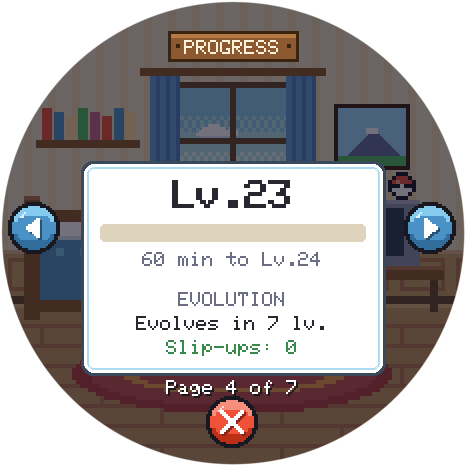
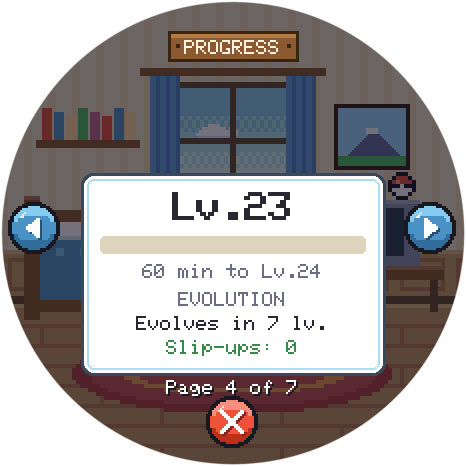
V2: after a battle both balls' bars come up in a panel; the Progress page's gap closed
The fight's end showed only the Ultra Ball's bar along the bottom, where the round
screen had no room for a second. Now, a second after the end's lines, the scene dims
and a panel rises into the middle with the Ultra Ball's bar over the Master Ball's;
this battle's step fills in on both and their numbers turn green. A battle that earns
a ball fills its bar to the top first, then the ball's moment (now at 2.4 s).

The card's Progress page: 12 px between the level's line and EVOLUTION, not 24.

Changed region(s): [[0.1502, 0.3305, 0.8412, 0.6009]]

diff --git a/master_v2.h b/master_v2.h
@@ -120,40 +120,56 @@ static void v2SpecialBall(int x, int y, int s) { v2SpecialBallTurned(s, 0, x, y,
 
 // ----- the bars: the ball, how many you hold, the fights to the next -----
 // the ball at (x, y) at 2x, the bar and "7/25" to its right, w in all; full: the fight that just earned one (25/25,
-// before its moment), the ball it earned not counted yet
-static void v2BallBar(bool master, int x, int y, int w, bool full) {
+// before its moment), the ball it earned not counted yet. k: how much of this fight's step shows, 0 to 1 (its number
+// counts it, in green, once it's all in)
+static void v2BallBar(bool master, int x, int y, int w, bool full, float k = 1) {
   if (master) v2MasterBall(x, y, 2);
   else v2UltraBall(x, y, 2);
   uint8_t n = master ? MASTER_FIGHTS : ULTRA_FIGHTS, held = master ? pet.masterBalls : pet.ultraBalls;
   uint8_t steps = full ? n : master ? pet.masterBar : pet.ultraBar;
   if (full && held) held--;
   if (held) drawCountBadge(x + 34, y + 4, held);
+  bool in = k >= 1 || !steps;
   char b[12];
-  snprintf(b, sizeof(b), "%u/%u", steps, n);
+  snprintf(b, sizeof(b), "%u/%u", in ? steps : steps - 1, n);
   bool cjk = classicFontBegin();
   setSize(2);
-  int tw = textW(b, 2), bx = x + 50, bw = w - 50 - tw - 10;
+  int tw = textW("100/100", 2), bx = x + 50, bw = w - 50 - tw - 10;  // (room for the longest: the bars line up)
   gfx->fillRoundRect(bx, y + 11, bw, 15, 6, C565(0xd8, 0xd2, 0xbd));
-  int fw = (bw - 4) * steps / n;
+  int fw = (int)((bw - 4) * (in ? steps : steps - 1 + (k < 0 ? 0 : k)) / n);
   if (fw > 2) gfx->fillRoundRect(bx + 2, y + 13, fw, 11, 5, master ? v2MasterInk('q') : C565(0xd0, 0xa0, 0x20));
-  gfx->setTextColor(V2_INK_MUTED);
-  setCur(x + w - tw, y + 11);
+  gfx->setTextColor(in && steps ? C565(0x3c, 0x8a, 0x4c) : V2_INK_MUTED);
+  setCur(x + w - textW(b, 2), y + 11);
   printT(b);
   classicFontEnd(cjk);
 }
 
 // ----- a fight's end -----
 static uint8_t v2MasterNew = 0;     // what this fight earned: 1 a Master Ball, 2 an Ultra Ball (battleFinish())
-#define V2_MASTER_SHOW_MS 1500      // the end as usual first, then the Master Ball's moment
-#define V2_MASTER_END_MS 6500       // ...until the catch or home (a tap from V2_MASTER_SKIP_MS)
-#define V2_MASTER_SKIP_MS 3000
-// t: since the end came up. The Ultra Ball's bar in a small panel under the lines (the nearer one); or, past
-// V2_MASTER_SHOW_MS of a fight that earned a ball, the gold burst: its name on the ribbon, the ball big with sparkles,
-// what it does, how many (a Master Ball's, when the fight earned both)
+#define V2_BARS_SHOW_MS 1000        // the end's lines first, then the balls' bars come up in a panel
+#define V2_BARS_IN_MS 180           // ...rising in as the scene dims
+#define V2_BARS_FILL_MS 450         // ...then this fight's step fills in on each
+#define V2_MASTER_SHOW_MS 2400      // a fight that earned a ball: its bar full, then the ball's moment
+#define V2_MASTER_END_MS 7400       // ...until the catch or home (a tap from V2_MASTER_SKIP_MS)
+#define V2_MASTER_SKIP_MS 3900
+// the balls' bars over the dimmed fight, t since they came up: the Ultra Ball's over the Master Ball's in a panel in
+// the middle, rising in, this fight's step filling in on both; gone with the fight (Fedor: "have them come up in a
+// 'modal' show progress and go away"; there was room at the bottom for one bar, the Ultra Ball's)
+static void v2BarsModal(uint32_t t) {
+  float in = t >= V2_BARS_IN_MS ? 1 : t / (float)V2_BARS_IN_MS;
+  v2DimFrame((int)(115 * in));
+  int y0 = 178 + SNAP2((int)(16 * (1 - in)));
+  v2Panel(V2_CARD_X0, y0, V2_CARD_X1, y0 + 110, 10);  // (as wide as the card's)
+  float k = t < V2_BARS_IN_MS + 150 ? 0 : (t - V2_BARS_IN_MS - 150) / (float)V2_BARS_FILL_MS;
+  v2BallBar(false, V2_CARD_L, y0 + 14, V2_CARD_R - V2_CARD_L, v2MasterNew & 2, k);
+  v2BallBar(true, V2_CARD_L, y0 + 62, V2_CARD_R - V2_CARD_L, v2MasterNew & 1, k);
+}
+// t: since the end came up. Past V2_BARS_SHOW_MS the balls' bars; past V2_MASTER_SHOW_MS of a fight that earned a
+// ball, the gold burst: its name on the ribbon, the ball big with sparkles, what it does, how many (a Master Ball's,
+// when the fight earned both)
 static void v2MasterEnd(uint32_t t) {
   if (!v2MasterNew || t < V2_MASTER_SHOW_MS) {
-    v2Panel(126, 406, 340, 438, 10);  // (under the second line's box; inside the round edge)
-    v2BallBar(false, 132, 404, 200, v2MasterNew & 2);
+    if (t >= V2_BARS_SHOW_MS) v2BarsModal(t - V2_BARS_SHOW_MS);
     return;
   }
   bool master = v2MasterNew & 1;

diff --git a/menus_v2.h b/menus_v2.h
@@ -537,10 +537,11 @@ static void v2CardTraining() {
 }
 static void v2CardItem(int which);  // (repel_v2.h: an item's own page: 0 the Ultra Ball, 1 the Master Ball, 2 the Repel)
 // Progress: the level big, its bar and what's left to the next; then evolution: when, and the slip-ups holding it back
+// (12 px between the two, not 24: Fedor, "max evolution should probably be a bit closer to each other")
 static void v2CardProgress() {
   const DexEntry &d = DEX_TBL[pet.speciesId];
   v2Sign(T(S_PROGRESS));
-  int y = v2CardPanel(32 + 12 + 18 + 10 + 16 + 24 + 16 + 8 + 16 + 8 + 16);
+  int y = v2CardPanel(32 + 12 + 18 + 10 + 16 + 12 + 16 + 8 + 16 + 8 + 16);
   char lv[10];
   snprintf(lv, sizeof(lv), T(S_LVL_FMT), pet.level());
   gfx->setTextColor(UI_INK);
@@ -556,7 +557,7 @@ static void v2CardProgress() {
   setSize(2);
   setCur(centerX(nx, 2), y + 72);
   printT(nx);
-  setCur(centerX(T(S_EVO_LABEL), 2), y + 112);
+  setCur(centerX(T(S_EVO_LABEL), 2), y + 100);
   printT(T(S_EVO_LABEL));
   char evoBuf[32];
   const char *evo;
@@ -574,12 +575,12 @@ static void v2CardProgress() {
     }
   }
   gfx->setTextColor(evoCol);
-  setCur(centerX(evo, 2), y + 136);
+  setCur(centerX(evo, 2), y + 124);
   printT(evo);
   char ms[24];  // the slip-ups, which hold evolution back
   snprintf(ms, sizeof(ms), T(S_MISTAKES_FMT), pet.careMistakes);
   gfx->setTextColor(pet.careMistakes > 0 ? UI_BAR_BAD : C565(0x3c, 0x8a, 0x4c));
-  setCur(centerX(ms, 2), y + 160);
+  setCur(centerX(ms, 2), y + 148);
   printT(ms);
 }
 // the card's four pages (the medals' pages are still V1's: step 5b)

diff --git a/docs/HOW_IT_WORKS.md b/docs/HOW_IT_WORKS.md
@@ -123,7 +123,7 @@ Kept with you from one Pokémon to the next, up to 99 of each. Each has its own 
 | 🟣 **Master Ball** | Every 100 of those battles | Always catches the Pokémon it hits |
 | 🧴 **Repel** | Every 20 minutes of mini games actually played | Spray it from the backpack: for 3 of the game's minutes, weaker wild Pokémon stay away |
 
-Running away, battles with buddies and PokeDungeon don't count toward the balls. On the catch screen, the balls you hold sit in a row, each the button for its throw: with both a Master and an Ultra Ball, the Master Ball, the Poké Ball in the middle, then the Ultra Ball.
+At the end of each of those battles, both balls' bars come up in the middle of the screen and this battle's step fills in on each. Running away, battles with buddies and PokeDungeon don't count toward the balls. On the catch screen, the balls you hold sit in a row, each the button for its throw: with both a Master and an Ultra Ball, the Master Ball, the Poké Ball in the middle, then the Ultra Ball.
 
 While a Repel works, wild encounters, and zones you've caught everything in, bring no Pokémon below your Pokémon's level and no species whose base stats add up to less than yours (if that leaves nobody, the usual pick). In a zone you haven't finished, every Pokémon there except its legendary is equally likely, and the legendary keeps its 1 in 100. Shiny odds don't change. It runs out while the Knomi is off, too. The backpack shows a badge with its minutes left, and a Repel used while one runs does nothing.
 

diff --git a/CHANGELOG.md b/CHANGELOG.md
@@ -6,6 +6,11 @@ All notable changes to the firmware. Versions match the number shown at the
 Updating from the [web installer](https://fedorsosnin.github.io/PokeKnomiGochi/)
 **without** ticking "Erase device" keeps your Pokémon.
 
+## [Unreleased]
+
+- **Both balls' bars after a battle:** at the end of a battle, the Ultra Ball's and the Master Ball's bars come up together in a panel in the middle of the screen, and this battle's step fills in on each, its number turning green. Before, only the Ultra Ball's bar showed, along the bottom. When a battle earns a ball, its bar fills up first, then the ball's moment.
+- **Progress page tidied:** on the card's Progress page, the evolution lines sit closer under the level's bar, without the big gap.
+
 ## [2.0.7] - 2026-11-11
 
 - **The moon and the sun out of the way:** in a battle the moon (and the sun by day) sits higher and a little left, over the wild Pokémon instead of behind it, where it looked like part of the sprite. Wild Encounter's sun, which hid under the wild Pokémon's name, moved up there too.
